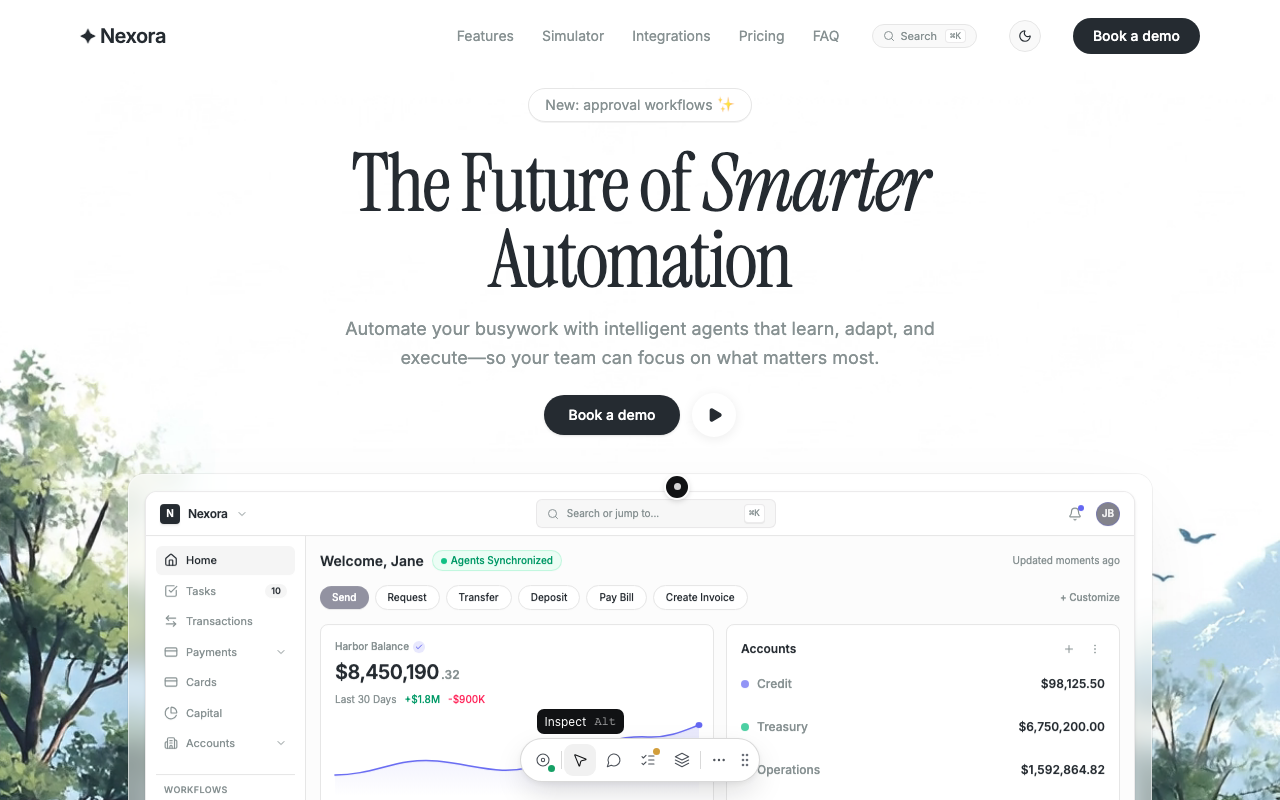
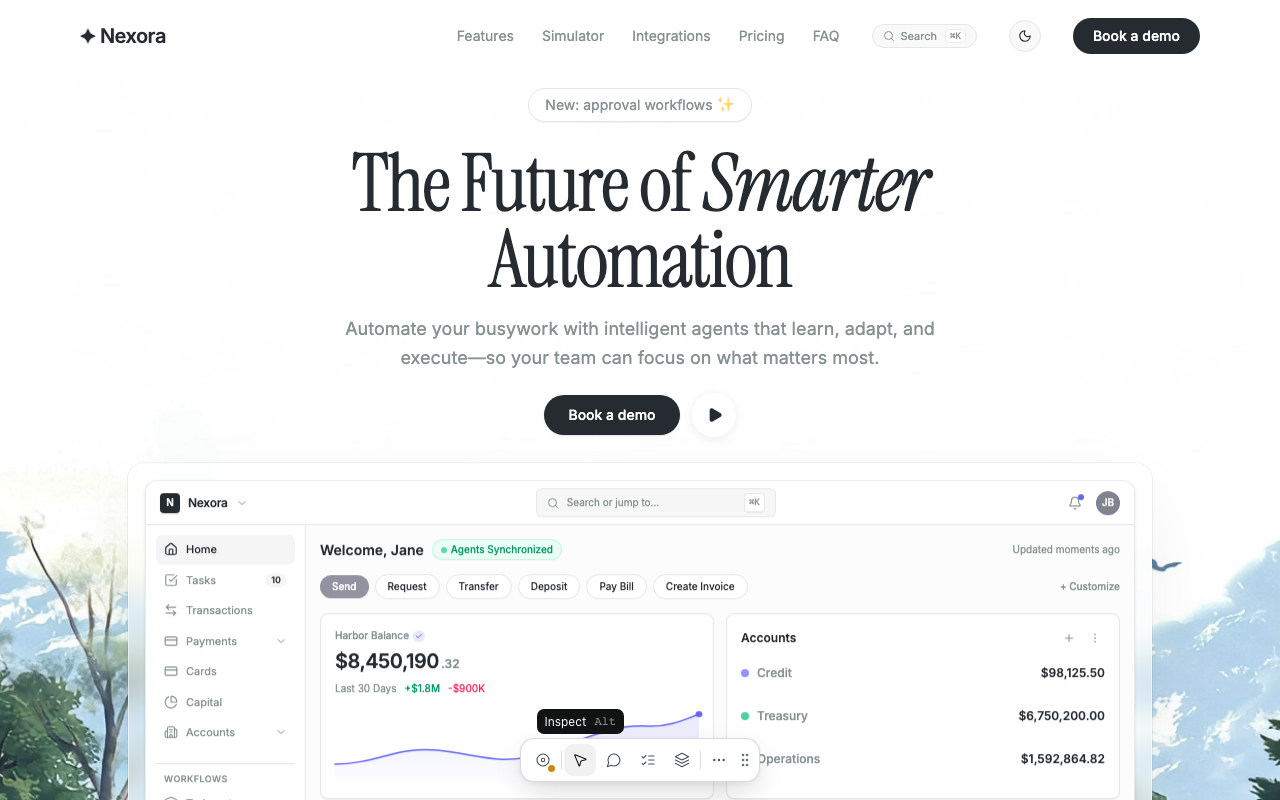
style(dock): squarer dock and minimized button

diff --git a/packages/overlay/src/styles/ui.css b/packages/overlay/src/styles/ui.css
@@ -188,8 +188,8 @@
 .ah-cpin.resolved { background: var(--ui-bg-3); color: var(--ui-fg-3); }
 
 /* ---------- dock ---------- */
-#ah-dock { position: fixed; z-index: 65; left: 50%; bottom: calc(18px + env(safe-area-inset-bottom, 0px)); transform: translateX(-50%); height: 44px; border-radius: 999px; display: flex; align-items: center; gap: 2px; padding: 0 6px; user-select: none; }
-#ah-dock.vertical { flex-direction: column; height: auto; width: 44px; padding: 6px 0; border-radius: 22px; }
+#ah-dock { position: fixed; z-index: 65; left: 50%; bottom: calc(18px + env(safe-area-inset-bottom, 0px)); transform: translateX(-50%); height: 44px; border-radius: 14px; display: flex; align-items: center; gap: 2px; padding: 0 6px; user-select: none; }
+#ah-dock.vertical { flex-direction: column; height: auto; width: 44px; padding: 6px 0; border-radius: 14px; }
 #ah-dock.vertical .ah-sep { width: 18px; height: 1px; }
 #ah-dock .ah-ibtn { width: 32px; height: 32px; border-radius: 9px; }
 #ah-dock .ah-ibtn[aria-pressed="true"] { background: var(--ui-ink); color: var(--ui-on-ink); }
@@ -199,7 +199,7 @@
 #ah-dock .working { position: absolute; top: 4px; right: 4px; }
 #ah-dock .grip { color: var(--ui-fg-3); cursor: grab; padding: 6px 3px; display: grid; place-items: center; }
 #ah-dock.dragging .grip { cursor: grabbing; }
-#ah-dock-min { position: fixed; z-index: 65; width: 40px; height: 40px; border-radius: 50%; display: grid; place-items: center; cursor: pointer; padding: 0; }
+#ah-dock-min { position: fixed; z-index: 65; width: 40px; height: 40px; border-radius: 12px; display: grid; place-items: center; cursor: pointer; padding: 0; }
 #ah-dock-min .ah-dot { position: absolute; right: 7px; bottom: 7px; box-shadow: 0 0 0 2px var(--ui-bg); }
 .ah-tip { position: fixed; z-index: 66; pointer-events: none; font: 12px var(--ui-font); padding: 5px 8px; border-radius: 7px; background: var(--ui-ink); color: var(--ui-on-ink); white-space: nowrap; display: flex; gap: 8px; }
 #ah-conn { width: 280px; padding: 12px; gap: 10px; }

diff --git a/docs/design/prototype.html b/docs/design/prototype.html
@@ -207,8 +207,8 @@ body.mode-comment #host { cursor: crosshair; }
 body.mode-inspect #host { cursor: default; }
 
 /* ---------- Dock ---------- */
-#dock { position: fixed; z-index: 65; left: 50%; bottom: 18px; transform: translateX(-50%); height: 44px; border-radius: 999px; display: flex; align-items: center; gap: 2px; padding: 0 6px; }
-#dock.vertical { left: auto; right: 16px; bottom: auto; top: 50%; transform: translateY(-50%); flex-direction: column; height: auto; width: 44px; padding: 6px 0; border-radius: 22px; }
+#dock { position: fixed; z-index: 65; left: 50%; bottom: 18px; transform: translateX(-50%); height: 44px; border-radius: 14px; display: flex; align-items: center; gap: 2px; padding: 0 6px; }
+#dock.vertical { left: auto; right: 16px; bottom: auto; top: 50%; transform: translateY(-50%); flex-direction: column; height: auto; width: 44px; padding: 6px 0; border-radius: 14px; }
 #dock.vertical .sep { width: 18px; height: 1px; }
 #dock .ibtn { width: 32px; height: 32px; border-radius: 9px; position: relative; }
 #dock .ibtn[aria-pressed="true"] { background: var(--ov-ink); color: var(--ov-on-ink); }
